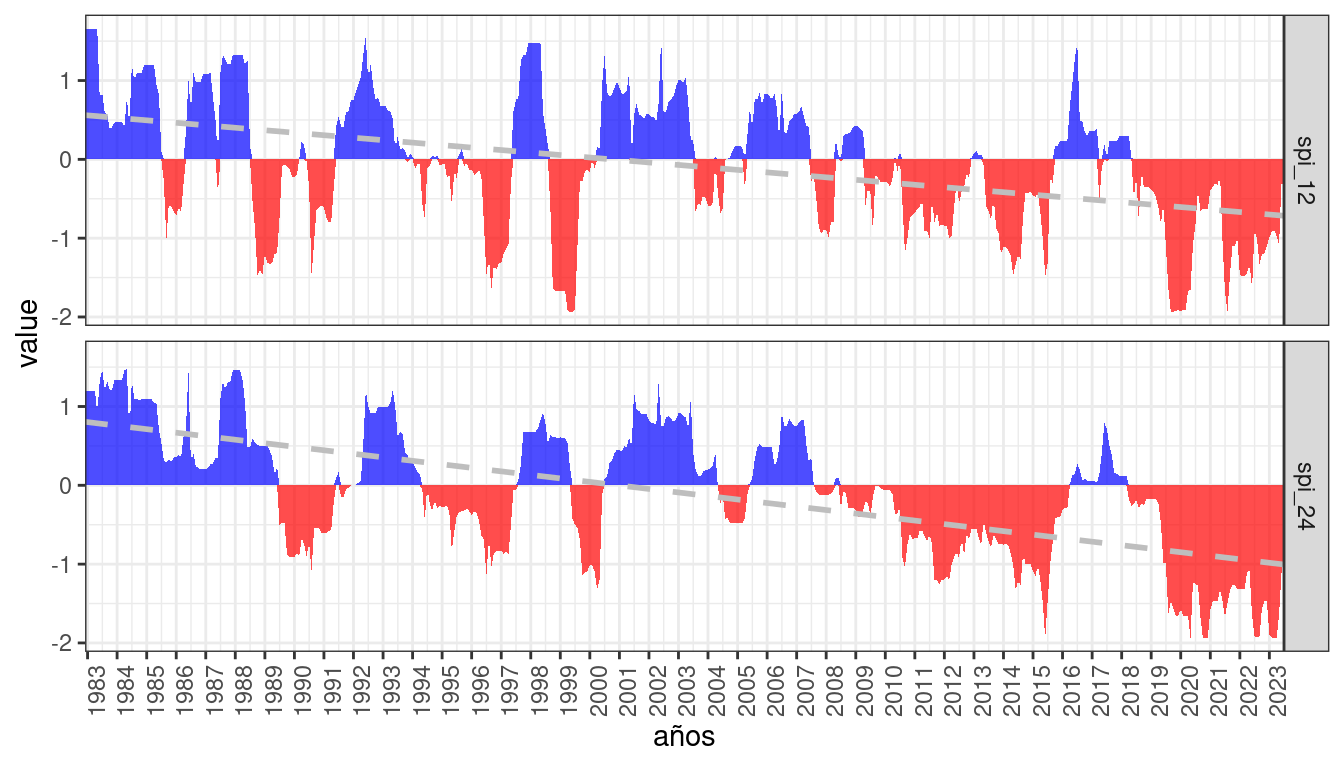
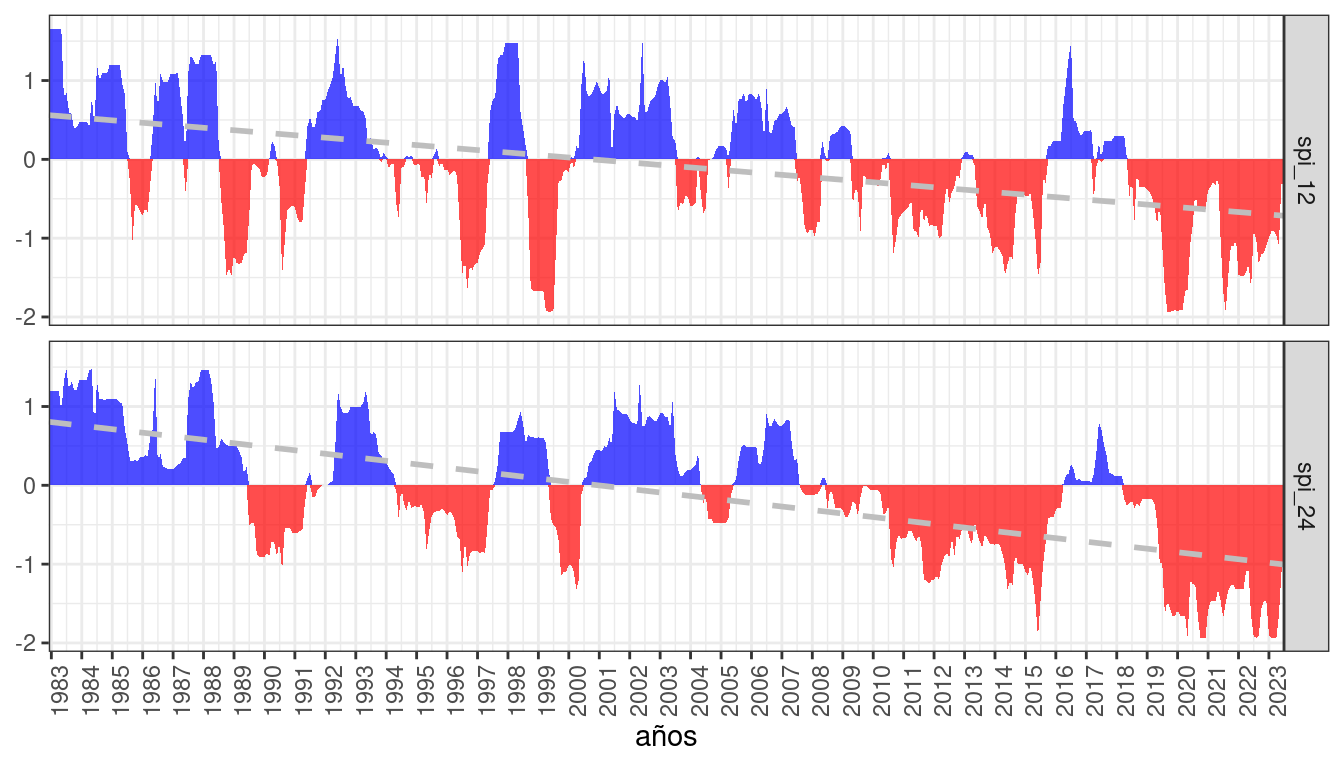
post alguna de aculeo

diff --git a/posts/laguna_acuelo_spi24/index.html b/posts/laguna_acuelo_spi24/index.html
@@ -202,7 +202,8 @@ pre > code.sourceCode > span > a:first-child::before { text-decoration: underlin
 <span id="cb1-9"><a href="#cb1-9" aria-hidden="true" tabindex="-1"></a>  <span class="fu">labs</span>(<span class="at">x=</span><span class="st">'años'</span>) <span class="sc">+</span></span>
 <span id="cb1-10"><a href="#cb1-10" aria-hidden="true" tabindex="-1"></a>  <span class="fu">facet_grid</span>(name<span class="sc">~</span>.) <span class="sc">+</span></span>
 <span id="cb1-11"><a href="#cb1-11" aria-hidden="true" tabindex="-1"></a>  <span class="fu">theme_bw</span>() <span class="sc">+</span></span>
-<span id="cb1-12"><a href="#cb1-12" aria-hidden="true" tabindex="-1"></a>  <span class="fu">theme</span>(<span class="at">axis.text.x =</span> <span class="fu">element_text</span>(<span class="at">angle=</span><span class="dv">90</span>))</span></code><button title="Copiar al portapapeles" class="code-copy-button"><i class="bi"></i></button></pre></div>
+<span id="cb1-12"><a href="#cb1-12" aria-hidden="true" tabindex="-1"></a>  <span class="fu">theme</span>(<span class="at">axis.text.x =</span> <span class="fu">element_text</span>(<span class="at">angle=</span><span class="dv">90</span>),</span>
+<span id="cb1-13"><a href="#cb1-13" aria-hidden="true" tabindex="-1"></a>        <span class="at">axis.title.y =</span> <span class="fu">element_blank</span>())</span></code><button title="Copiar al portapapeles" class="code-copy-button"><i class="bi"></i></button></pre></div>
 </details>
 <div class="cell-output-display">
 <div class="quarto-figure quarto-figure-center">

diff --git a/index.html b/index.html
@@ -170,7 +170,7 @@ ul.task-list li input[type="checkbox"] {
 
 <div class="quarto-listing quarto-listing-container-default" id="listing-listing">
 <div class="list quarto-listing-default">
-<div class="quarto-post image-right" data-index="0" data-categories="sequía,SPI24,Aculeo" data-listing-date-sort="1693108800000" data-listing-file-modified-sort="1693151933981" data-listing-date-modified-sort="NaN" data-listing-reading-time-sort="3">
+<div class="quarto-post image-right" data-index="0" data-categories="sequía,SPI24,Aculeo" data-listing-date-sort="1693108800000" data-listing-file-modified-sort="1693151994549" data-listing-date-modified-sort="NaN" data-listing-reading-time-sort="3">
 <div class="thumbnail">
 <p><a href="./posts/laguna_acuelo_spi24/index.html"> <p class="card-img-top"><img src="posts/laguna_acuelo_spi24/index_files/figure-html/unnamed-chunk-2-1.png"  class="thumbnail-image card-img"/></p> </a></p>
 </div>
